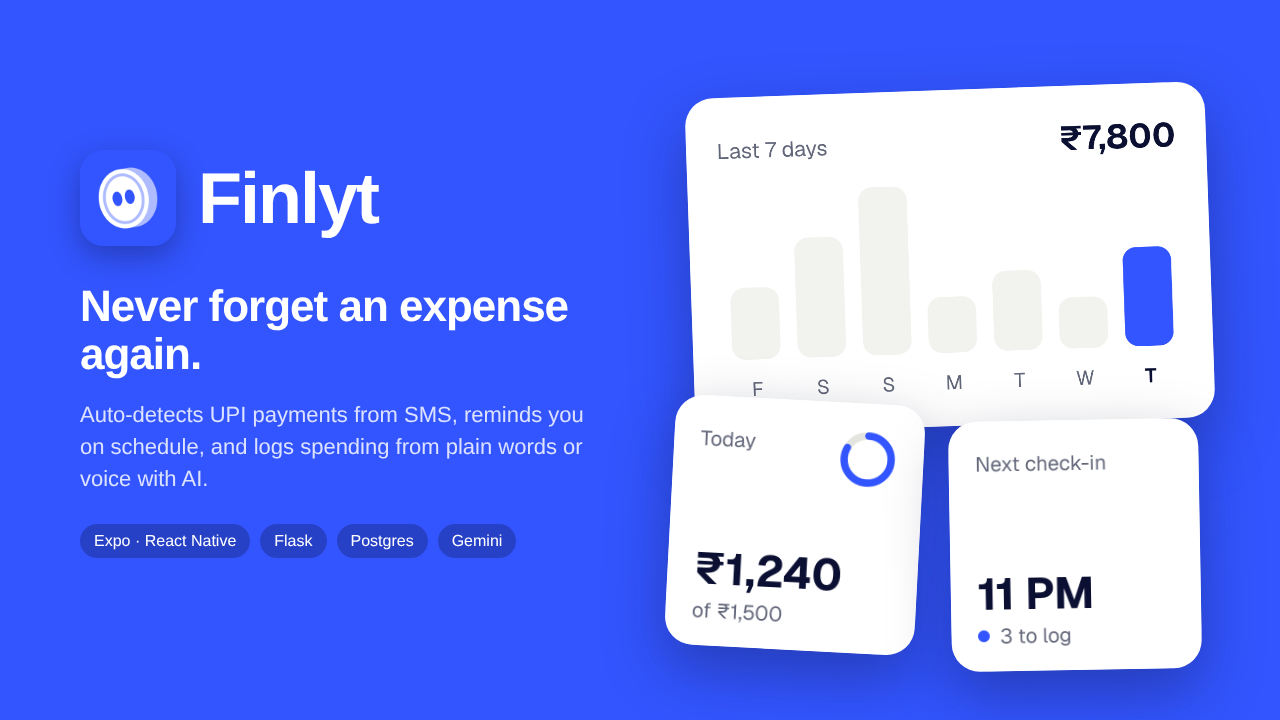
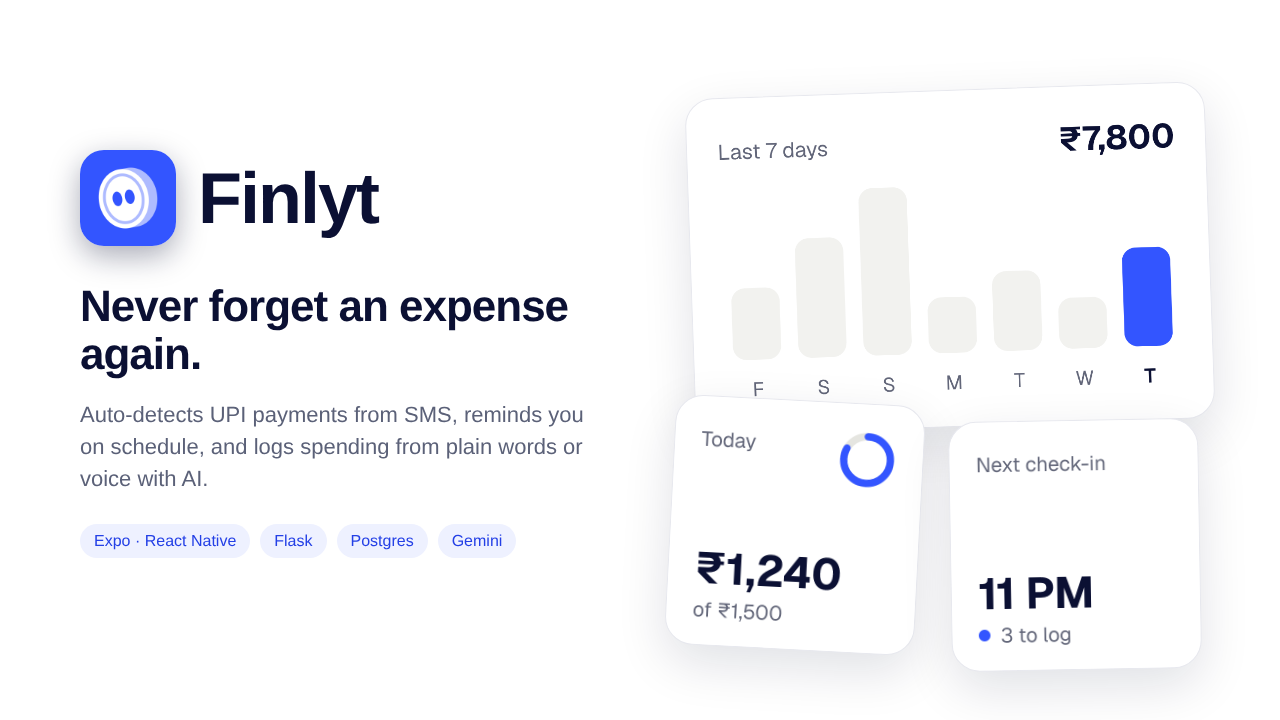
feat: white background for the Finlyt project cover
Switch the live cover and the thumbnail to the Finlyt website's
light-theme colours: white background, blue coin, navy wordmark.

Claude-Session: https://claude.ai/code/session_014JZTTQxtAgZhabqwhBxvZK

diff --git a/src/components/FinlytCover.jsx b/src/components/FinlytCover.jsx
@@ -1,22 +1,22 @@
 import { useEffect, useRef } from "react";
 
 // Live cover for the Finlyt project card. The coin mascot and "finlyt" wordmark are the
-// same SVG as on the Finlyt website (finlyt-web/src/components/Logo.jsx), recoloured for a
-// blue background like the app icon. On show it plays the website's intro: the coin pops
-// in and dances while blinking, the letters bounce in one by one, then it does a happy hop.
+// same SVG as on the Finlyt website (finlyt-web/src/components/Logo.jsx), in the website's
+// light-theme colours on a white background. On show it plays the website's intro: the coin
+// pops in and dances while blinking, the letters bounce in one by one, then a happy hop.
 // After that it idles (blinks, hops now and then) and hops whenever anything clickable on
 // the card is pressed. With reduced motion everything stays still.
 //
 // Every size is in cqw (percent of the card's width) so it scales with the card.
 
 const COLORS = {
-  bg: "#3355FF",
-  face: "#FFFFFF",
-  edge: "#AEBBFF",
+  bg: "#FFFFFF",
+  face: "#3355FF",
+  edge: "#2440E6",
   ring: "#AEBBFF",
-  eyes: "#3355FF",
-  text: "#FFFFFF",
-  dot: "#0B1033",
+  eyes: "#FFFFFF",
+  text: "#0B1033",
+  dot: "#3355FF",
 };
 
 const LETTERS = [
@@ -134,7 +134,7 @@ function Wordmark({ letterRefs, hidden }) {
 function Widget({ src, className, style }) {
   return (
     <div
-      className={`finlyt-float overflow-hidden bg-white shadow-[0_2cqw_5cqw_rgba(11,16,51,0.35)] ${className}`}
+      className={`finlyt-float overflow-hidden bg-white border border-[#E7E8EE] shadow-[0_1.5cqw_4cqw_rgba(11,16,51,0.12)] ${className}`}
       style={{ borderRadius: "2.2cqw", ...style }}
     >
       <img src={src} alt="" draggable="false" className="block w-full" />
@@ -220,7 +220,7 @@ export default function FinlytCover() {
           top: "-12cqw",
           width: "55cqw",
           height: "55cqw",
-          background: "radial-gradient(circle, rgba(174,187,255,0.35), transparent 65%)",
+          background: "radial-gradient(circle, rgba(174,187,255,0.28), transparent 65%)",
         }}
       />
 
@@ -233,8 +233,8 @@ export default function FinlytCover() {
           <Wordmark letterRefs={letterRefs} hidden={!still} />
         </div>
         <p
-          className="font-semibold text-white"
-          style={{ marginTop: "3cqw", fontSize: "3.6cqw", lineHeight: 1.1, letterSpacing: "-0.05cqw" }}
+          className="font-semibold"
+          style={{ color: COLORS.text, marginTop: "3cqw", fontSize: "3.6cqw", lineHeight: 1.1, letterSpacing: "-0.05cqw" }}
         >
           Never forget an expense again.
         </p>
